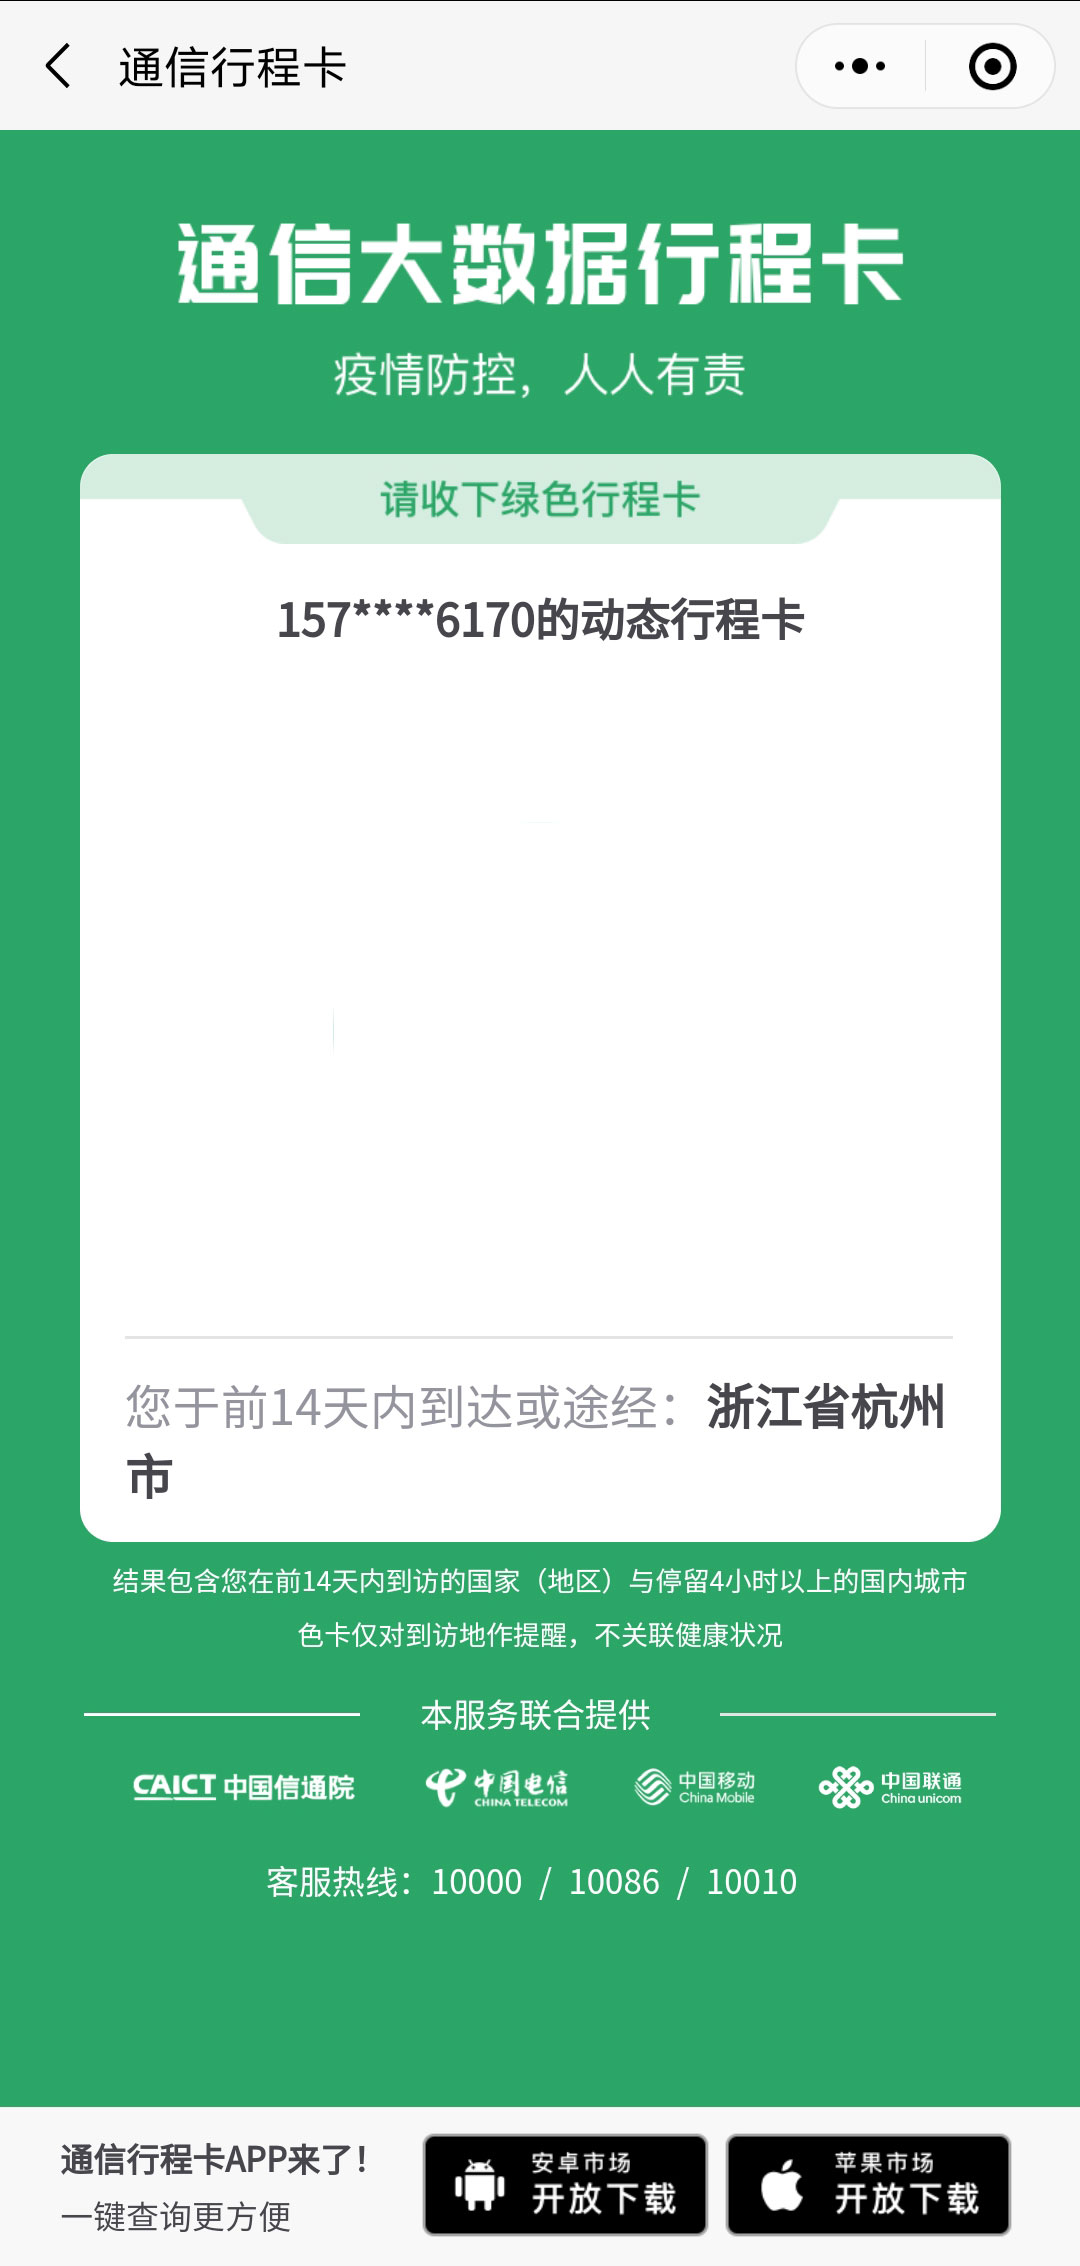
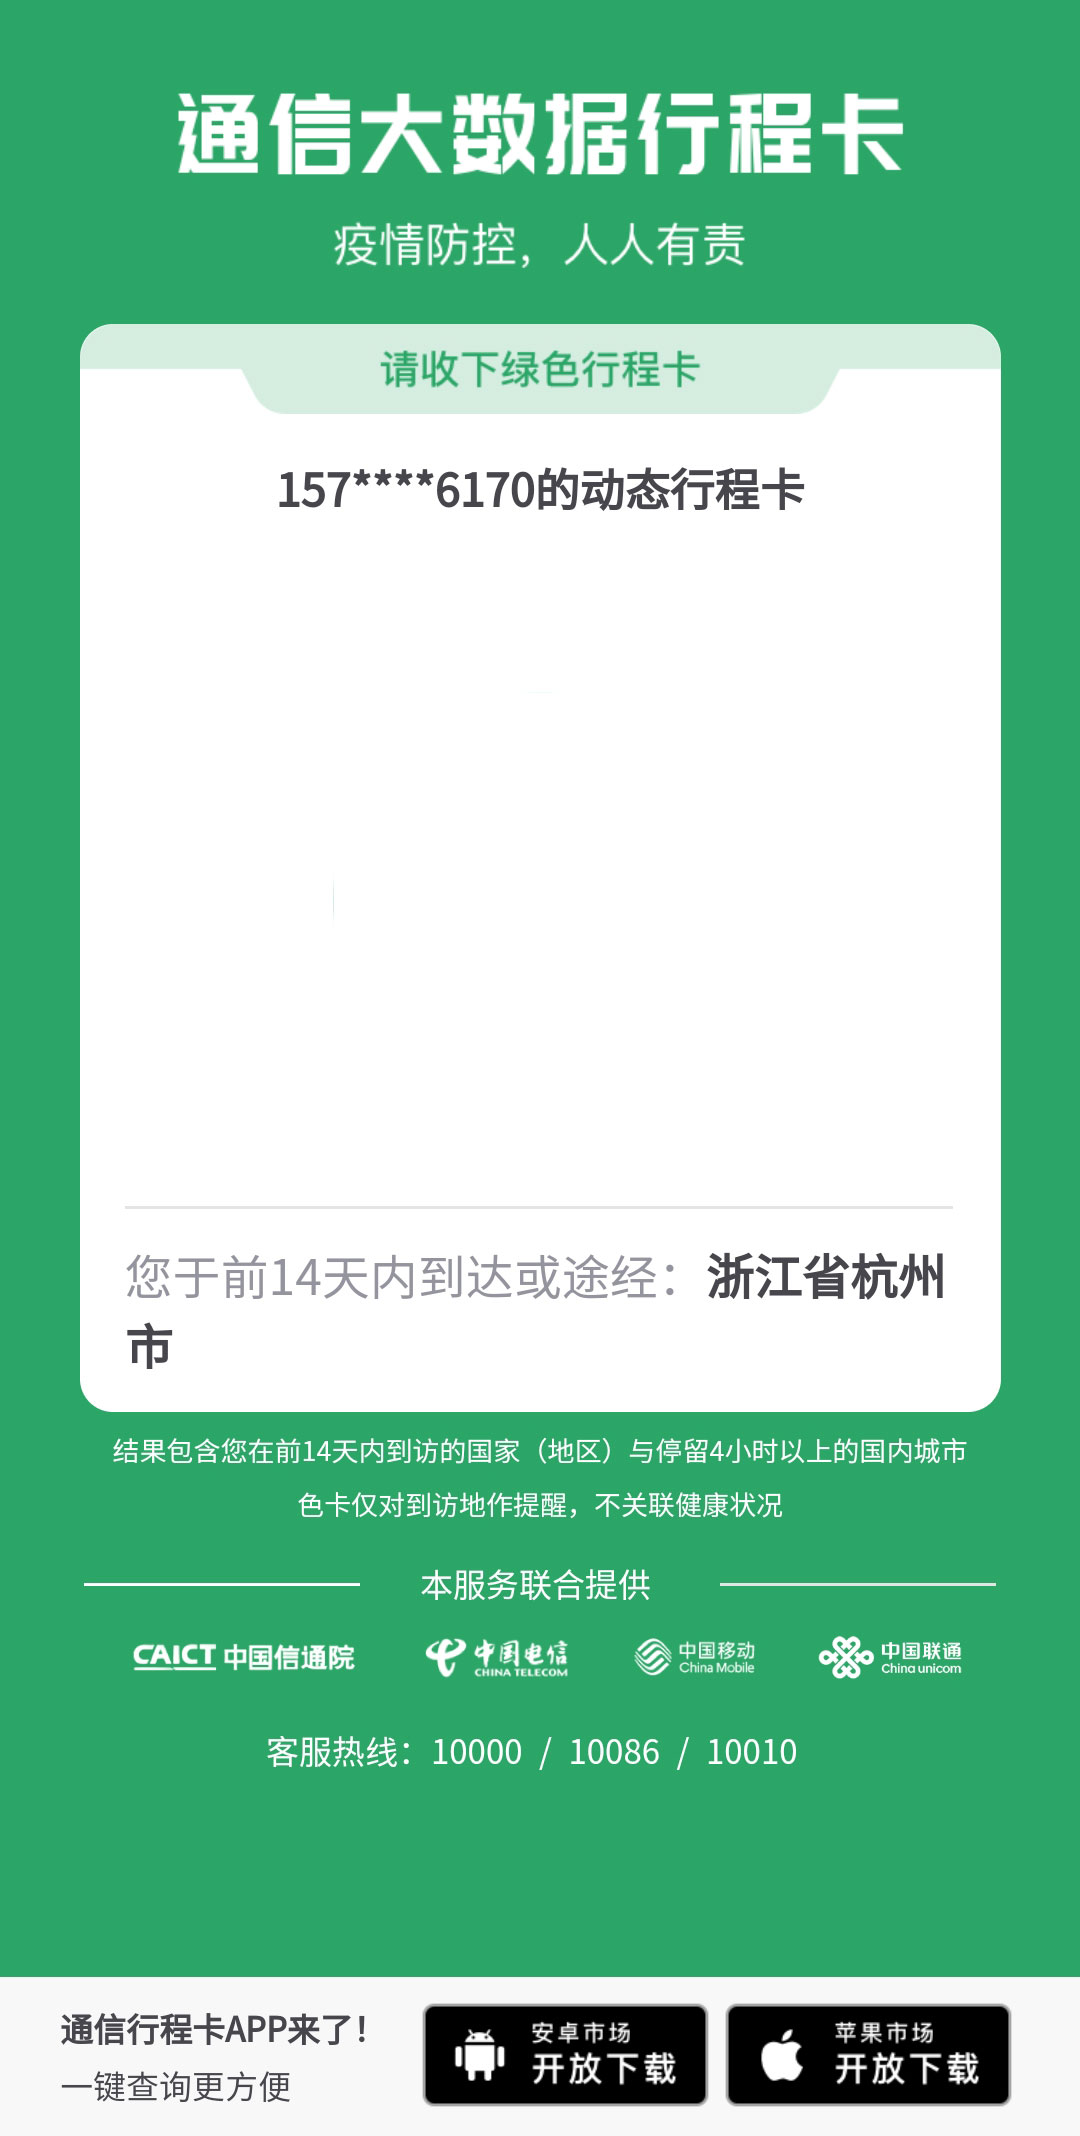
health

diff --git a/app/health/health.html b/app/health/health.html
@@ -3,7 +3,7 @@
 <head>
     <meta charset="UTF-8">
     <meta content="width=1080,shrink-to-fit=no, maximum-scale=1, user-scalable=no" name="viewport">
-    <title>健康码</title>
+    <title>通信行程卡</title>
     <style>
         * {
             margin: 0;
@@ -11,14 +11,13 @@
             box-sizing: border-box;
         }
         body {
-            padding-top: 700px;
+            padding-top: 570px;
             height: 100vh;
-            background: url("./health-bg.jpg") no-repeat top left / 100%;
+            background: url("./health-bg.jpg?t=1") no-repeat top left / 100%;
         }
 
         .time-wrap {
             font-size: 56px;
-            /*font: 60px "黑体", "Microsoft YaHei";*/
             text-align: center;
             color: #94949e;
         }
